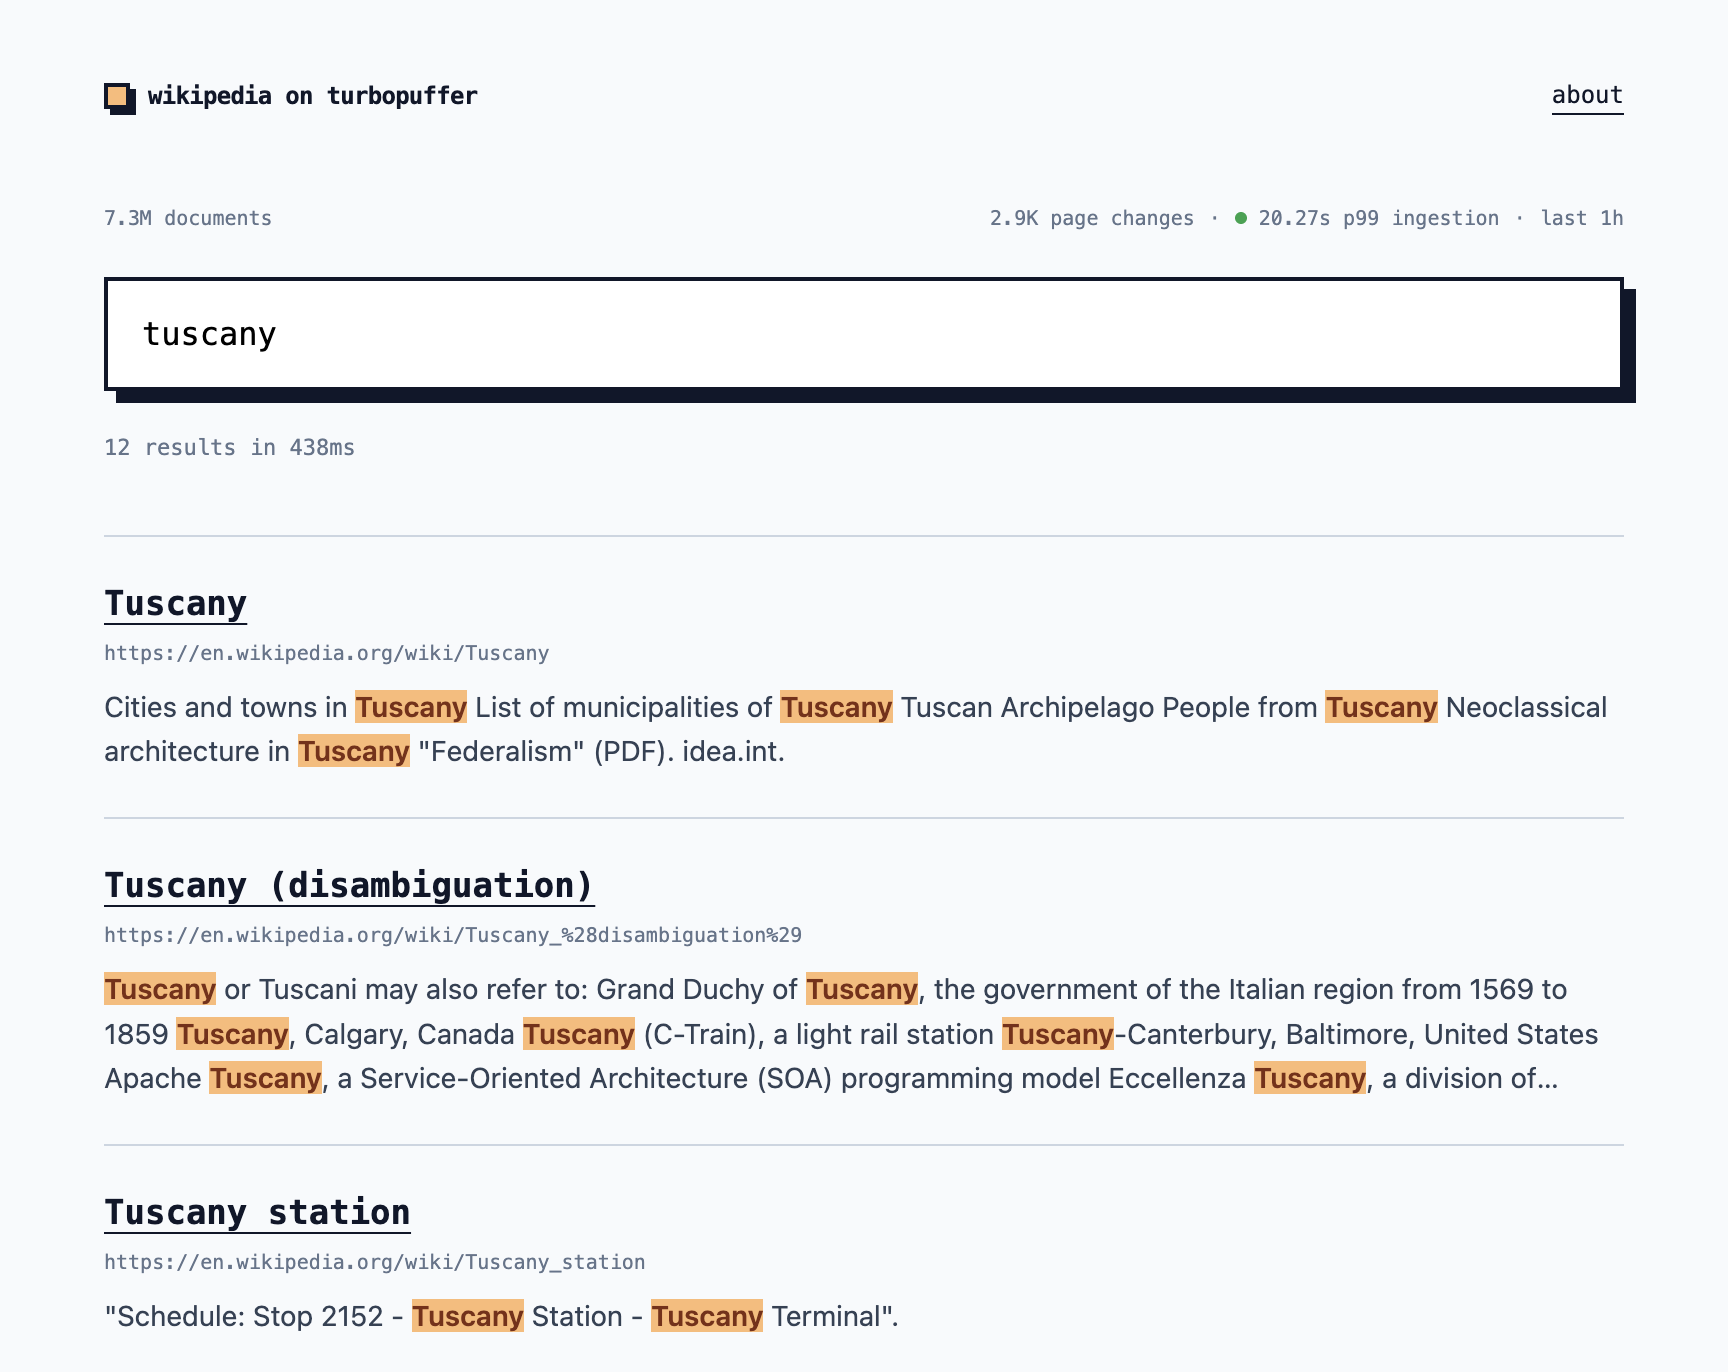
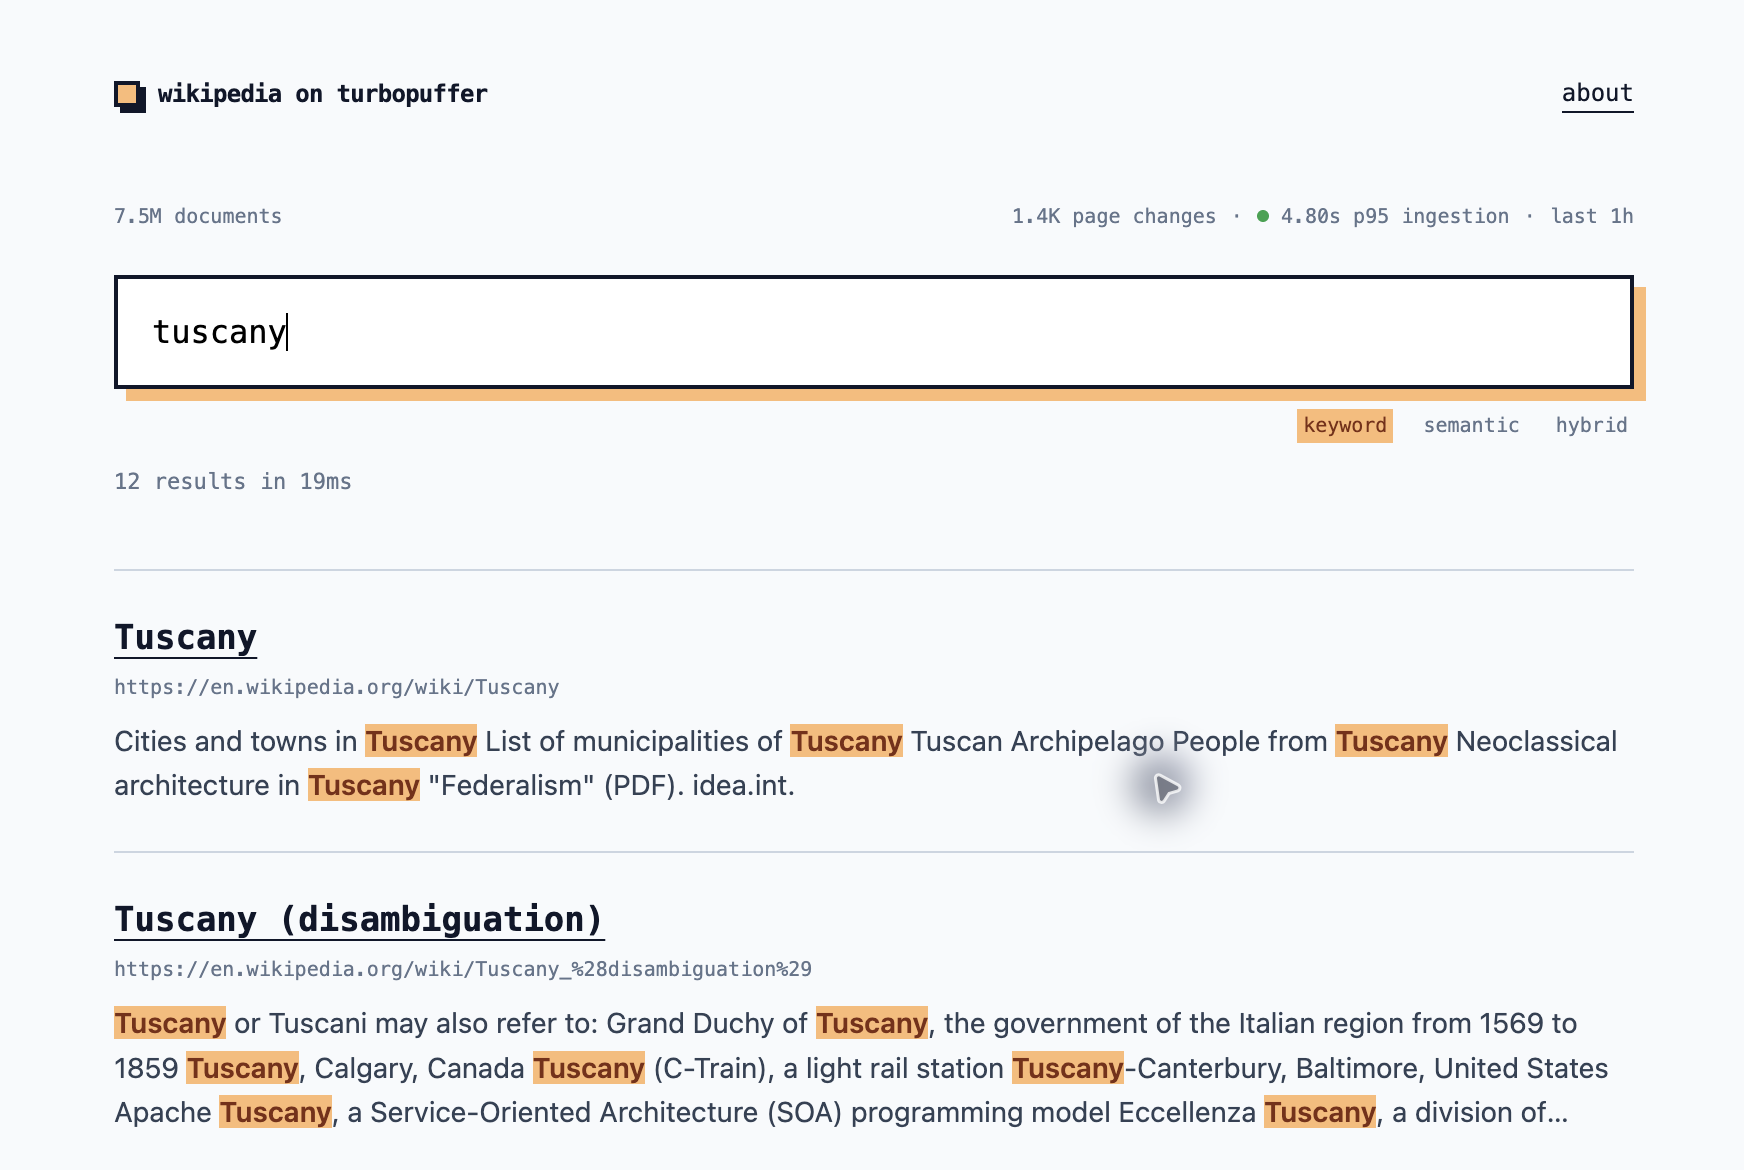
blog: report Wikipedia ingestion results

diff --git a/content/blog/wikipedia-on-turbopuffer.md b/content/blog/wikipedia-on-turbopuffer.md
@@ -7,7 +7,7 @@ images = ["/img/blog/wikipedia-on-turbopuffer/search-tuscany.png"]
 toc = true
 +++
 
-*TLDR: I use Redpanda Connect to keep 7.26M English Wikipedia articles indexed in turbopuffer for keyword, semantic, and hybrid search. The pipeline targets a 30s p99 ingestion SLO and costs roughly $60/month, including embedding inference. Demo [here](https://wikipedia-web-cfscc6ofha-uc.a.run.app/).*
+*TLDR: I use Redpanda Connect to keep 7.26M English Wikipedia articles indexed in turbopuffer for keyword, semantic, and hybrid search. The pipeline targets a 30s p95 ingestion SLO and costs roughly $60/month, including embedding inference. Demo [here](https://wikipedia-web-559056160005.us-central1.run.app/).*
 
 Today is "h4x day" at [turbopuffer](https://turbopuffer.com/). It's basically a 24-hour hackathon fueled by good food, electrolytes, and high beats per second music. Everyone picks a project, ideally something they would not have tackled in their regular work stream. It's very energizing. I'm grateful to be surrounded by so many smart and thoughtful people. I feel clumsy around my new colleagues.
 
@@ -47,9 +47,9 @@ The long-running system has two write paths and one read path:
 
 ```text
 Live updates:
-Wikipedia event stream -> fetch current page -> Redpanda Connect -> turbopuffer
+Wikipedia event stream -> batch changes -> fetch Cirrus documents -> turbopuffer
 
-Reconciliation (every 5min):
+Reconciliation (after gaps):
 MediaWiki recent changes -> fetch current pages -> turbopuffer watermark
 
 Search:
@@ -89,7 +89,7 @@ output:
 
 turbopuffer sends `embedding_text` through [Nemotron 3.5 Embed 1B](https://huggingface.co/nvidia/Nemotron-3.5-Embed-1B-BF16) during each write, stores the resulting vector, and maintains an [ANN index](https://turbopuffer.com/docs/query) over it. Query text goes through the same model at search time.
 
-The fast path listens to Wikimedia's `recentchange` stream. It keeps new pages and edits from the English article namespace, and discards the rest. A change event does not contain the full article, so the ingester fetches the latest HTML from Wikipedia's [REST API](https://www.mediawiki.org/wiki/API:REST_API) and converts it to plain text. The HTML marks its lead as [section zero](https://www.mediawiki.org/wiki/Parsing/Notes/Section_Wrapping), which lets me build `embedding_text` from the title and lead.
+The fast path listens to Wikimedia's `recentchange` stream. It keeps new pages and edits from the English article namespace, and discards the rest. A change event does not contain the full article, so the ingester groups five seconds of events and fetches their current [CirrusSearch documents](https://www.mediawiki.org/wiki/Extension:CirrusSearch) in one MediaWiki API request. Each document contains both the complete article text and its `opening_text`, so the online path uses the same semantic input as the dump.
 
 Not every edit changes the lead. At the current estimate, re-embedding it costs roughly $9/month, which is not enough to justify maintaining separate diffing state.
 
@@ -97,11 +97,16 @@ Here's the shape of the configuration:
 
 ```yaml
 input:
-  http_client:
-    url: https://stream.wikimedia.org/v2/stream/recentchange
-    stream:
-      enabled: true
-      reconnect: true
+  batched:
+    child:
+      http_client:
+        url: https://stream.wikimedia.org/v2/stream/recentchange
+        stream:
+          enabled: true
+          reconnect: true
+    policy:
+      count: 500
+      period: 5s
 
 pipeline:
   processors:
@@ -111,8 +116,8 @@ pipeline:
         } else {
           deleted()
         }
-    - http:
-        url: https://en.wikipedia.org/w/rest.php/v1/page/${! this.title }/with_html
+    - wikipedia_hydrate:
+        api_url: https://en.wikipedia.org/w/api.php
 
 output:
   turbopuffer:
@@ -122,11 +127,11 @@ output:
       period: 1s
 ```
 
-The stream gives low latency, but it is not the source of truth. Alongside it, the ingester runs a reconciliation pass every five minutes against MediaWiki's [`recentchanges` API](https://www.mediawiki.org/wiki/API:RecentChanges/en). Each pass chooses a fixed end time, lists everything that changed since the previous watermark, and fetches the current CirrusSearch document for every affected page. That covers edits which arrived while the SSE connection was down, as well as moves and deletes that the fast path does not handle.
+The stream gives low latency, but it is not the source of truth. After an interruption, I run a reconciliation pass against MediaWiki's [`recentchanges` API](https://www.mediawiki.org/wiki/API:RecentChanges/en). Each pass chooses a fixed end time, lists everything that changed since the previous watermark, and fetches the current CirrusSearch document for every affected page. That covers edits which arrived while the SSE connection was down, as well as moves and deletes that the fast path does not handle.
 
-The watermark is another small document stored in turbopuffer. It only advances after the complete window has been reconciled. If the process dies halfway through, it repeats the same window. Repetition is safe because writes and deletes check the Wikipedia revision ID. The stream makes changes visible quickly, whilst the periodic pass makes the index converge to Wikipedia's current state.
+The watermark is another small document stored in turbopuffer. It only advances after the complete window has been reconciled. If the process dies halfway through, it repeats the same window. Repetition is safe because writes and deletes check the Wikipedia revision ID. The stream makes changes visible quickly, whilst reconciliation makes the index converge to Wikipedia's current state.
 
-I gave the prototype a 30-second freshness SLO: 99% of page changes should reach turbopuffer within 30 seconds. At the time of writing, the p99 over the previous hour was 20.27 seconds. This includes embedding inference because it happens on the same write path.
+I gave the prototype a 30-second freshness SLO: 95% of page changes should reach turbopuffer within 30 seconds. At the time of writing, the p95 over the previous hour was 4.80 seconds.
 
 ### Bootstrapping from a dump
 
@@ -183,12 +188,12 @@ The averages hide what the two systems are actually returning. Pick a question b
 
 The low overlap does not tell us which system is better. Wikipedia's ranker is a useful reference, not ground truth. A proper evaluation would need relevance judgements for each result. This experiment only says that the two rankers disagree substantially.
 
-In terms of final output, I made a simple search [frontend](https://wikipedia-web-cfscc6ofha-uc.a.run.app/):
+In terms of final output, I made a simple search [frontend](https://wikipedia-web-559056160005.us-central1.run.app/):
 
 <div align="center">
 <figure style="width: 100%; margin: 2rem 0;">
-    <img src="/img/blog/wikipedia-on-turbopuffer/search-tuscany.png" alt="The Wikipedia on turbopuffer frontend showing search results for Tuscany and a p99 ingestion latency of 20.27 seconds." style="border: 1px solid #cbd5e1; border-radius: 10px; box-shadow: 0 16px 40px rgba(15, 23, 42, 0.18);">
-    <figcaption><i>Searching 7.3M English Wikipedia articles, with p99 ingestion latency below the 30-second SLO.</i></figcaption>
+    <img src="/img/blog/wikipedia-on-turbopuffer/search-tuscany.png" alt="The Wikipedia on turbopuffer frontend showing search results for Tuscany and p95 ingestion latency below five seconds." style="border: 1px solid #cbd5e1; border-radius: 10px; box-shadow: 0 16px 40px rgba(15, 23, 42, 0.18);">
+    <figcaption><i>Searching 7.3M English Wikipedia articles, with p95 ingestion latency below the 30-second SLO.</i></figcaption>
 </figure>
 </div>
 
